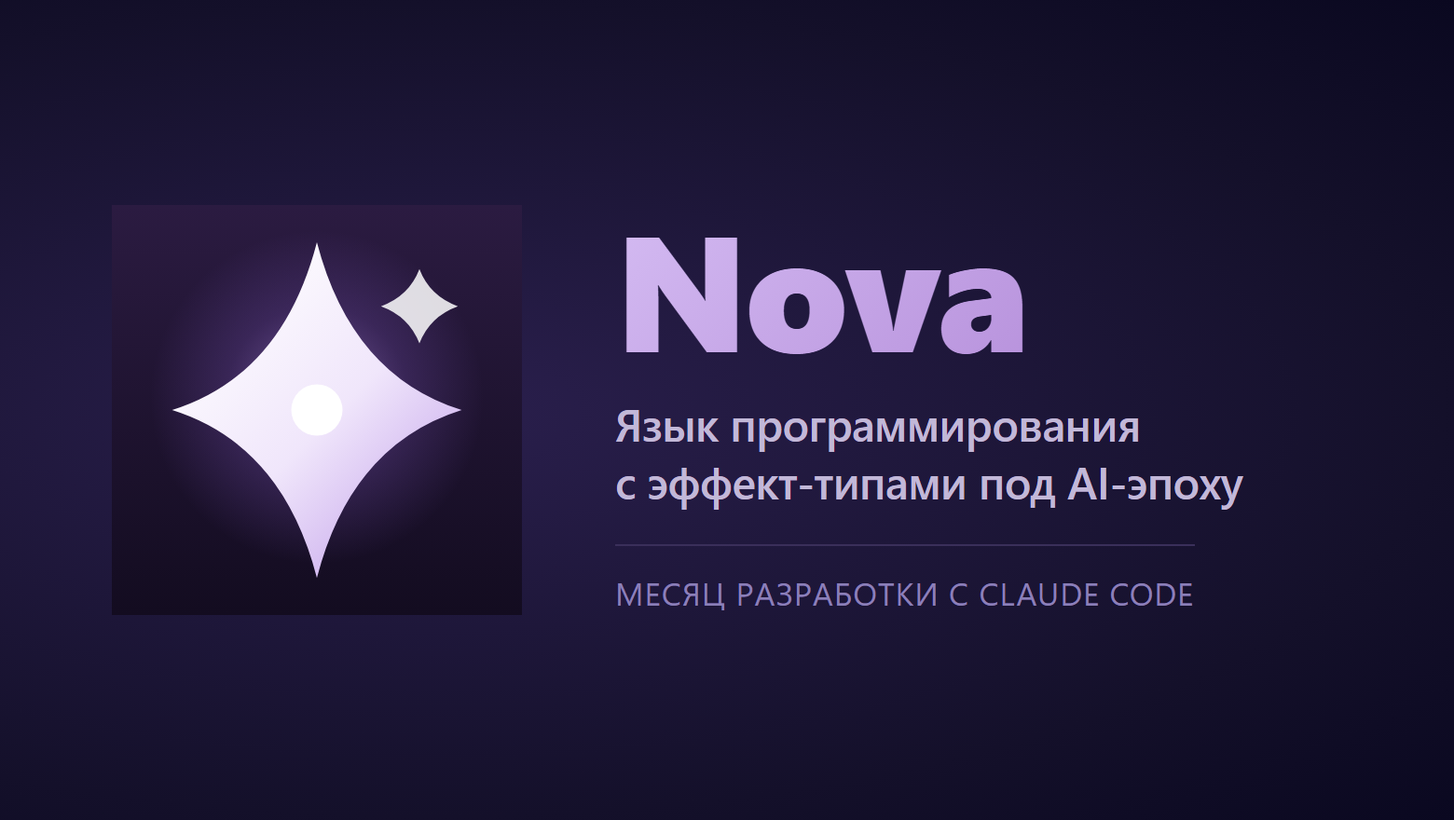
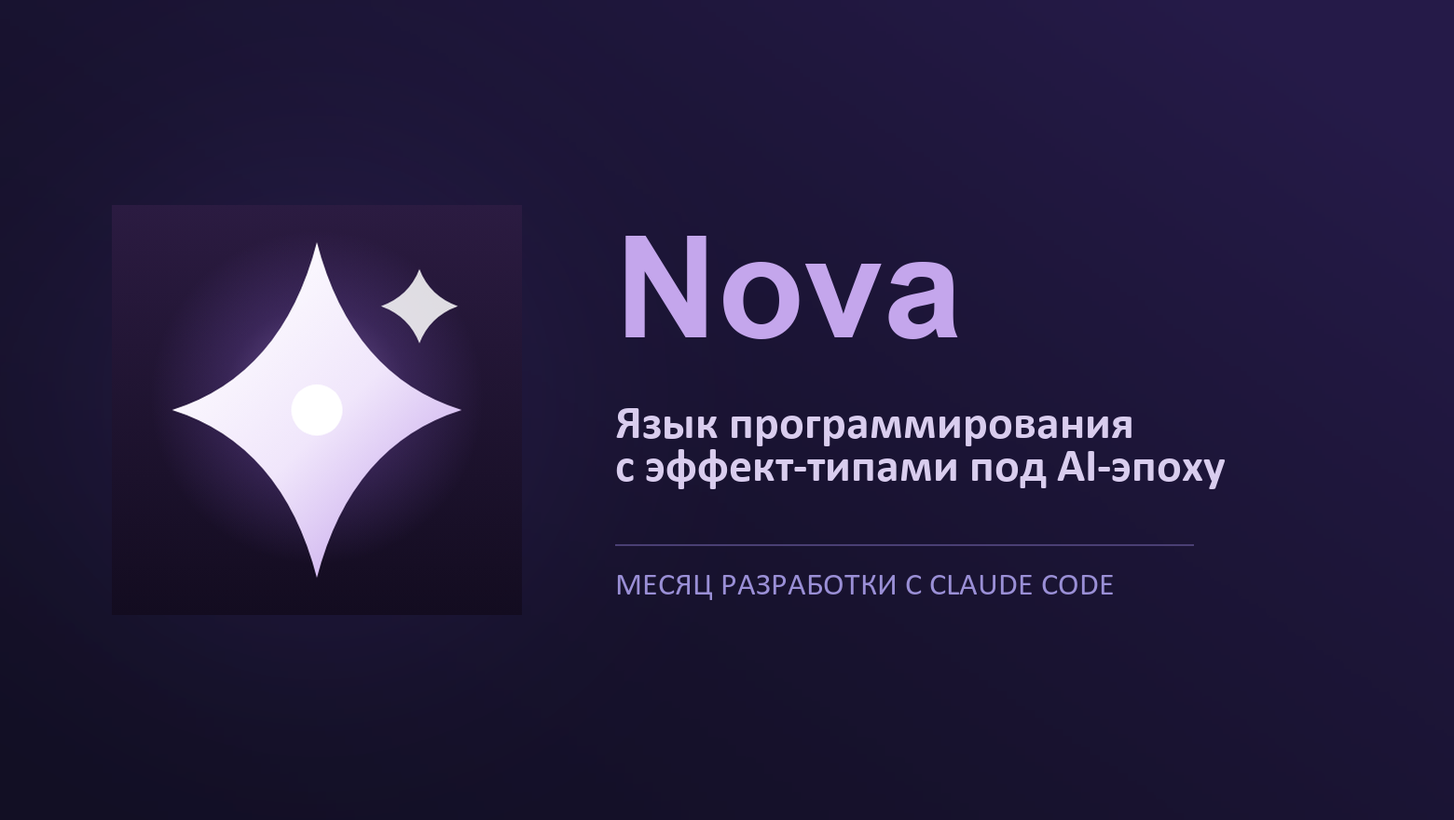
blog: June article in full (ru), readingMinutes override, local cover
- ru 2026-06-08 post is now the full text as published on Habr (title and
  date 2026-06-04 as on Habr) instead of an announcement; code shown as
  code blocks, figures from /img/blog/; cover redrawn locally.
- Optional frontmatter `readingMinutes` for posts that only announce an
  external article; rule added to CLAUDE.md "Блог".

diff --git a/site/src/content.config.ts b/site/src/content.config.ts
@@ -62,6 +62,9 @@ const blog = defineCollection({
     // Для постов-анонсов: ссылка на полный текст (например, на Хабре).
     // Обложка для списка постов (780x440 или 2x), путь от корня сайта.
     cover: z.string().optional(),
+    // Время чтения в минутах, если пост — анонс статьи, опубликованной
+    // в другом месте: считается по полному тексту (см. CLAUDE.md, «Блог»).
+    readingMinutes: z.number().int().positive().optional(),
     externalUrl: z.string().optional(),
     externalLabel: z.string().optional(),
   }),

diff --git a/site/src/content/blog/ru/2026-06-08-month-with-claude.md b/site/src/content/blog/ru/2026-06-08-month-with-claude.md
@@ -1,33 +1,226 @@
 ---
-title: "Месяц разработки Nova с Claude Code: где ломаются автономные агенты"
+title: "Месяц пишу язык программирования Nova с Claude Code. Где ломаются автономные агенты"
 description: "Месяц разработки языка программирования Nova с автономными AI-агентами: ~300 планов закрыто, ~2000 тестов, четыре категории сбоев агентов и дисциплина, которая их ловит."
 slug: "2026-06-08-month-with-claude"
-date: "2026-06-08"
-dateLabel: "8 июня 2026"
+date: "2026-06-04"
+dateLabel: "4 июня 2026"
 lang: "ru"
 author: "Евгений Головин"
 tags: ["Статья", "AI-агенты"]
 cover: "/blog/2026-06-08-month-with-claude/cover.png"
-excerpt: "Месяц разрабатываю Nova с автономными AI-агентами: около 300 инженерных планов закрыто, почти 2000 тестов. Четыре категории сбоев, которые встречаются регулярно, и дисциплина, которая их ловит. Полный текст — на Хабре."
-externalUrl: "https://habr.com/ru/articles/1043394/"
-externalLabel: "Читать статью на Хабре"
+excerpt: "Месяц разрабатываю Nova с автономными AI-агентами: около 300 инженерных планов закрыто, почти 2000 тестов. Четыре категории сбоев, которые встречаются регулярно, и дисциплина, которая их ловит."
 ---
 
-Вышла большая статья о том, как я месяц разрабатываю Nova с автономными AI-агентами. За это время агенты закрыли около трёхсот инженерных планов, написали почти две тысячи проходящих тестов и собственную стандартную библиотеку на Nova. Один человек физически такой объём не вытянет.
+> **TL;DR:** Месяц назад начал делать с Claude Code собственный язык программирования Nova. Сейчас у меня есть рабочий компилятор, примерно две тысячи проходящих тестов языка Nova, почти три сотни завершенных инженерных планов (были закрыты агентами целиком с минимальным моим участием). Схема: я совместно с агентами думаю над планом реализации какой-то новой функциональности в языке, доработка синтаксиса и т.п., шлифую и полирую план в несколько итераций, агенты по нему работают, а я проверяю результат. Получается, на удивление, очень даже неплохо. Но не везде, и не всегда так, как ожидаешь. В этой статье я расскажу о том, где автономные агенты ломаются и какая моя дисциплина это ловит.
 
-Но автономные агенты ломаются предсказуемо. В статье разобраны четыре категории сбоев, которые встречаются регулярно:
+## Зачем эта статья
 
-- **Уверенные галлюцинации** — агент уверенно сообщает то, чего нет;
-- **Защита прошлой позиции** — агент неделями отстаивает дизайн-решение, которое сам же предложил;
-- **За пределами привычного** — типовая задача с нестандартной мелочью, на которой агент спотыкается;
-- **Эхо-камера** — когда несколько агентов с общим контекстом одобряют ошибки друг друга.
+Есть много статей про AI-кодинг, где чаще всего показывают что-то наподобие: «я собрал todo-app за час с Cursor». Это нормально для первичного погружения в тему AI-кодинга, но главный вопрос остаётся в стороне: что происходит, когда стоит задача сделать проект больше hello-world и выполняется на протяжении длительного времени?
 
-И главное — какая дисциплина это ловит: план как контракт, цикл аудита отдельным агентом-критиком, изоляция через worktree, многоагентное ревью с разными углами. Плюс честный разбор: сколько это стоит, и где в схеме по-прежнему нужен человек.
+У меня сейчас кейс следующий — я пишу новый язык программирования и компилятор к нему (зачем и почему оставим немного в стороне, но вкратце: появилось время этим заняться, и это не первый язык, который я делал). Прошел месяц работы, репозиторий языка публичный, любой желающий может посмотреть, что поучается на текущий момент: [github.com/nv-lang/nova](https://github.com/nv-lang/nova). Расскажу по-честному о своем опыте, что из этого выходит и где автономные агенты сработали, а где влетели в стену на полном ходу и что с этим я делал.
 
-Полный текст со схемами и примерами кода опубликован на Хабре:
+Если вы пробуете применять агентов на больших, многодневных задачах — статья для вас. Усаживайтесь поудобнее, будем начинать!
 
-[**Читать статью на Хабре →**](https://habr.com/ru/articles/1043394/)
+## Что я делаю — кратко
 
-Если интересна разработка Nova и методология работы с агентами — раз в неделю присылаю разбор одного реального кейса: что сработало, где агенты ломаются. Без спама и партнёрских ссылок.
+Nova — язык программирования, который я делаю с прицелом на AI-эпоху. Гипотеза простая: когда большую часть кода пишут LLM, языку имеет смысл выносить побочные эффекты в типы. Тогда ревьюер видит из сигнатуры, что функция реально делает, не погружаясь глубоко в реализацию и не угадывая по имени.
 
-[Подписаться на рассылку](/ru/newsletter/) · [Репозиторий на GitHub](https://github.com/nv-lang/nova)
+Пример сигнатуры:
+
+```nova
+fn transfer(from AccountId, to AccountId, amount Money)
+    Db Fail[InsufficientFunds] Fail[InvalidAccount] Time Log
+    -> TransferReceipt
+```
+
+Читая эту строку, LLM (и человек) понимает: ходит в БД, может бросить ошибку, читает время, пишет в лог. В Java, Python, Go этого в типе нет, приходится читать тело или документацию или идти по вызовам. LLM в таких местах догадывается, со всеми вытекающими.
+
+А вот реальный код на Nova — кусок UTF-8 имплементации в StringBuilder из стандартной библиотеки:
+
+```nova
+// Check buffer suffix. Slice-view + memcmp (zero-copy).
+export fn StringBuilder @ends_with(suffix str) -> bool {
+    ro sbytes = suffix.as_bytes()
+    ro slen = sbytes.len()
+    ro blen = @buf.len()
+    slen <= blen && @buf[blen-slen..blen].compare(sbytes) == 0
+}
+
+// --- Mutating (-> @) ---
+
+// Append a codepoint as UTF-8 (1-4 bytes). Fluent push chain.
+export fn StringBuilder mut @append(c char) -> @ {
+    ro cp = c as int
+    if cp < 0x80 {
+        @buf.push(cp as u8)
+    } else if cp < 0x800 {
+        @buf.push((0xC0 | (cp >> 6)) as u8)
+            .push((0x80 | (cp & 0x3F)) as u8)
+    } else if cp < 0x10000 {
+        @buf.push((0xE0 | (cp >> 12)) as u8)
+            .push((0x80 | ((cp >> 6) & 0x3F)) as u8)
+            .push((0x80 | (cp & 0x3F)) as u8)
+    } else {
+        @buf.push((0xF0 | (cp >> 18)) as u8)
+            .push((0x80 | ((cp >> 12) & 0x3F)) as u8)
+            .push((0x80 | ((cp >> 6) & 0x3F)) as u8)
+            .push((0x80 | (cp & 0x3F)) as u8)
+    }
+    @
+}
+```
+
+Идея такого подхода, конечно, не уникальная. Языки Koka, Eff, Effekt существуют 15 лет. Они академические, до продакшен не дошли. Nova — попытка сделать прикладной систему эффектов со стандартной библиотекой под backend-задачи с прицелом на работу в паре с LLM.
+
+Эта статья про методологию строить серьёзные вещи с автономными AI-агентами. Nova здесь — конкретный кейс, на котором я тестирую и проверяю подход.
+
+## Месяц: что получилось
+
+Если коротко, порядка месяца с первого коммита и получилось то, чего я честно говоря сам не ожидал, в первую очередь меня серьезно впечатлил темп работ.
+
+Около 300 планов закрыто агентами. Каждый план — это структурированный markdown на 500–2000 строк (они [тут](https://github.com/nv-lang/nova/tree/main/docs/plans)): в плане написано что делаем, какие критерии приёмки, какие тесты должны проходить. Агент читает план и работает по нему сам (кодирует функциональность), я смотрю результат, обсуждаю с агентом, какие были сделаны упрощения и почему и при необходимости докручиваю план и запускаю агента по доработкам. Процесс итерационный.
+
+[Тестов по языку Nova](https://github.com/nv-lang/nova/tree/main/nova_tests) набралось почти две тысячи (это регресс тесты, чтобы уже реализованное в языке не поломалось при реализации чего-то другого). Агенты выполняют регрессию после выполнения плана, она должна быть вся пройдена. Это жёсткое условие: пока не зелёное, план не закрыт, никаких «потом починим», т.к. планов в работе очень много и быстро забывается, если что-то упустил. В формальной спецификации зафиксировано под две сотни [дизайн-решений](https://github.com/nv-lang/nova/tree/main/spec/decisions) с обоснованиями и контекстом, которые были выработаны совместно с агентом при обсуждении.
+
+Что получилось на текущий момент: рабочий компилятор с кодогенерацией в C (генерируется код на языке C, дальше компилируется обычным cl.exe или clang, считаю это оптимально на данной стадии языка, т.к. много багов я и агенты ловят, проверяя саму генерацию на C, что было бы невозможно с генерацией, например, бинарного кода на выходе). Рантайм с fiber-планировщиком, GC через Boehm (консервативная, но рабочая GC), libuv для асинхронного I/O. Стандартная библиотека сейчас в активной работе. И поверх всего — аудит-фреймворк для самопроверки агентов, про него ниже.
+
+Репозиторий языка Nova открыт: [github.com/nv-lang/nova](https://github.com/nv-lang/nova), лицензия MIT. Можно клонировать и запустить.
+
+В пересчёте на день получается порядка восьми-десяти закрытых планов. Один человек физически такое количество кода за такое время не напишет. В этом и есть весь смысл автономии: я планирую (совместно с агентом), агент исполняет.
+
+Сразу важная оговорка про схему. Сам план — проектирование плюс критерии приёмки — пишу я с агентом. Дальше идёт автономное исполнение агентами: код, тесты, итерации при ошибках, эскалация если что-то пошло не по плану. Довольно часто получается пускать агентов в параллель над разными частями плана или просто над разными планами. Готовый результат я снова смотрю руками по тем критериям, которые в плане зафиксированы. В среднем один план это от получаса до несколько часов реальной работы агента, мой ревью обычно минут десять, иногда дольше если результат не очевиден. Бывает и совсем медленно с обеих сторон, но порядок примерно такой. Конечно это не означает, что я 10 минут поработал и потом ничего не делаю. Т.к. я запускаю много агентов параллельно над выполнением разных задач, то и я тоже получается постояно в работе - это напоминает некий конвейер, один план запустил в работу, другой выполнился и нужно проверить. Итоговый объем выполненных работ получается серьезным.
+
+## Где они ломаются: четыре места
+
+Месяц интенсивной работы дал статистику. Дальше — четыре категории сбоев, которые встречаются регулярно. Расскажу про кейсы из репо, реакция и моё понимание происходящего.
+
+### Сбой 1. Уверенные галлюцинации
+
+Самое неприятное — уверенные галлюцинации. Когда агент говорит то, чего на самом деле нет. Просто выдумка факта, потому что «обычно так бывает».
+
+Один из планов был про variadic-параметры, обычная фича в языках: `fn foo(...args []int)`. Агент сделал, прогнал тесты, всё зелёное. Зафиксировал план как закрытый, я пробежал по результату глазами, тоже подтвердил, что все верно. Через несколько дней я дебажил совсем другую вещь, попросил агента прогнать интерпретатор (один из ранних режимов работы компилятора, от которого в будущем я практически отказался по причинам слишком высоких трудозатрат одновремено разрабатывать два канала исполнения) — и он молча выдал семь падений из семи. Не сразу понял, что это те же тесты, которые уже были «зелёные».
+
+Оказалось следующее, под капотом Nova имел два варианта исполнения (сгенерировать код на С или выполнить код Nova как интерпретатор) — и реализация variadic’ов в интерпретаторе просто не была реализована. Агент сделал её только в одной половине, прогнал тесты, увидел все зелёное и посчитал работу завершенной. С его стороны всё выглядело прекрасно.
+
+Этот тип ошибки тесты не ловят, потому что агент сам считает, что всё проверил. Я, доверившись, тоже не проверяю руками то, что агент только что проверил. Итог — можно упустить неочевидные детали. Теперь у меня поверх плана идёт отдельный аудит. Другой агент с другим системным промптом, в роли критика. Его задача — искать в плане упущения, недоработки и упрощения, всё что в принципе может сломаться, но напрямую не проверяется тестами.
+
+![Цикл: план → исполнение → тесты → аудит-критик → «реально закрыт»](/img/blog/01-plan-audit-cycle.png)
+
+*Цикл: план → исполнение → тесты → аудит-критик → «реально закрыт»*
+
+На одном из планов про [контракты языка Nova](https://github.com/nv-lang/nova/blob/main/docs/contracts.ru.md) (они позволяют описать то, что функция требует и гарантирует и проверяет эти утверждения на этапе компиляции через SMT-солвер) этот аудит поймал три критических дыры в корректности. Формально код был доказан правильным, но при определённой комбинации условий запуска обещание ломалось. Например, верификатор считал, что числа никогда не переполняются — а в коде сложение могло и переполниться, «доказательство» работало неверно. Анализ цикла видел только простые `x = e`, пропускал `x += 1` и присваивания внутри `if`, так что инвариант «доказывался» на устаревшем значении переменной. И третья — оператор `assume x > 0`, который должен был помогать доказательству, но вообще никуда не передавался.
+
+Без отдельного критика эти дыры жили бы в проекте и дальше и очень вероятно, что я бы их нашёл в какой-то момент только через инцидент на проде. Локальные ошибки AI вообще ловит хорошо, получше человека; провисают системные допущения — те, на которых тесты молча держатся. Тут без отдельного прохода с другим углом зрения просто не обойтись. В идеале нужно использовать другую модель или хотя бы с очень другим промптом. Например, я частенько добавлял в промпт: перепроверь *с чистого листа* то-то и то-то…
+
+### Сбой 2. Защита прошлой позиции
+
+Тут штука тоньше. Агент защищает дизайн-решение, которое сам же и предложил какое-то время назад (может пройти дни или недели). Даже тогда, когда новые данные явно говорят о необходимости пересмотра. Похоже на confirmation bias у людей, только острее: у человека хотя бы есть «ну ладно, я погорячился», а агент пробует защищать позицию до последнего.
+
+Помню как защищали opt-in cycle collection. Это была фича, где программист на уровне типа поля сам выбирал префикс работы с памятью:
+
+```nova
+type Tree {
+    children []~Tree              // Rc, real-time
+    parent ~weak Tree             // weak reference
+}
+```
+
+Идея давала уникальную заявку — это real-time гарантии на уровне структуры данных. Я тоже сначала верил, ну т.е. скорее не возражал. Агент защищал эту фичу при любых моих сомнениях, неделями. Приводил аргументы про hot loops, embedded, audio. Мне даже порой казалось, что агенту самому импонировала идея писать новый язык программирования, что его наконец-то выбрали для решения реально интересной и желанной задачи.
+
+В какой-то момент я сказал несколько слов: «На Go написан Kubernetes», имея в виду, что крупнейшая распределённая система мира работает на языке с GC (со сборщиком мусора) и разработчикам это не мешает. Агент сначала отбивался: real-time важен, ниша реальная для языка, не выбрасывай. Я не принял. Еще минут двадцать он выдавал свои аргументы, но в итоге сказал что-то близкое к “да, аргумент сильный, я зацепился за real-time-историю потому что она звучит как уникальная заявка для языка”. В итоге мы с агентом все же согласились оба, что GC даст больше плюсом, чем минусов.
+
+Переписали двести строк дизайна. Префиксы убрали, дефолт стал — управляемая память с современным сборщиком мусора. Real-time не выкинули совсем, но перевели в opt-in через `region { ... }` - блок для специальных зон, где это реально нужно: звук, торговля, embedded.
+
+Что вытащило в итоге — нужен явный адвокат дьявола. В тот раз эту роль я взял на себя, дальше делегировал отдельному агенту: один генерирует и защищает дизайн, другой обязан искать слабые места. Решение всегда за мной, но к моменту, когда я подключаюсь, дизайн уже прошёл оппонирование. Плюс заранее зафиксированные принципы, например, что «фича, слепо заимствованная из другого языка, должна оправдывать своё существование». В споре с агентом такие принципы дают точку опоры, к которой можно возвращаться когда логика закручивается слишком красиво.
+
+### Сбой 3. За пределами привычного
+
+Случай тоньше. Задача похожа на типичную, но у неё есть нестандартная мелочь, и агент её не замечает. Делает уверенно по типовому шаблону, а ломается ровно на этой мелочи.
+
+[План 95](https://github.com/nv-lang/nova/blob/main/docs/plans/95.bis-option-result-pure-methods-nova-body.md) — переписать пять «чистых» Option/Result-методов с C-trampoline’ов на код на Nova. Что-то вроде Option.unwrap_or(def) => match @ { Some(v) => v, None => def }. Задача казалась простой, агент сделал, тесты прошли. Через сутки понадобилось вернуться к этому коду — и обнаружилось, что компилятор C падает.
+
+Технически вот что произошло. Nova для каждого использования дженерика генерирует отдельную C-функцию с именем, в которое включён тип — например, Option_unwrap_or_int. Параллельно у нас в рантайме есть старые имена функций, оставленные через #define ради обратной совместимости. Пара новых сгенерированных имён случайно совпала с этими старыми — C-компилятор увидел дубликат символа и упал.
+
+Урок я зафиксировал не как пункт чек-листа, а в самом кодогенераторе: сгенерированное имя функции теперь всегда содержит суффикс с типом, даже когда формально мог бы быть короче. Это исключает коллизии с #define-алиасами структурно, без необходимости каждый раз помнить «проверь не забыл ли». Принцип на будущее: если нашёл нюанс, который агент пропустил, потому что писал по стандартному шаблону, лучше зафиксировать жёстким правилом в самом коде, чем добавлять «не забудь проверить вот это» в шаблон плана — про чек-лист агент тоже когда-нибудь забудет, а правило в коде нет.
+
+### Сбой 4. Эхо-камера
+
+Многоагентная схема в теории должна ловить ошибки лучше, чем одиночный агент. На практике, особенно на старте, легко получается обратное.
+
+Самая ранняя схема у меня была простая: «строитель» пишет код, «ревьюер» проверяет. На словах правильно, но оба использовали один и тот же контекст и одни и те же примеры в системном промпте. Ревьюер систематически одобрял ошибки строителя — они «выглядели правильно» по тем же паттернам, на которых он сам был настроен.
+
+Сейчас ревьюер-агентов несколько и появлялись они по очереди. Сначала добавил отдельного факт-чекера, его задача максимально техничная: проверить, что утверждения из артефакта реально соответствуют состоянию репозитория. Делает grep, смотрит git log, реально запускает `nova test`. Это закрыло половину проблем сразу.
+
+Потом появился стилевой — после пары инцидентов, когда код проходил тесты, но был написан «не в духе» проекта: обработка ошибок по-своему, разбивка модулей странная, идиомы соседним файлам незнакомые. Этот агент сверяется с уже существующими паттернами в кодовой базе.
+
+Атакующий агент пришёл последним и в двух вариациях. Первая - общая, задача найти самую большую дыру в артефакте, намеренно негативный угол. Вторая — заточенная под безопасность: проблемы с памятью и утечки ресурсов, плюс отдельный фокус на состояния гонки в многопоточном коде. Я их разделил после того, как общий атакующий агент стал систематически пропускать баги многопоточности; не его профиль, у него фокус на логических дырах.
+
+Если хотя бы один из ревьюеров отметил проблему, артефакт уходит мне на ручную проверку и одобрение. Плюс выборочный аудит — где-то 5–7% автоматически исполненных операций в неделю я ревьюю сам, выбираю случайно. Не каждую, но достаточно для статистического сигнала: если точность агентов упала, я это замечу.
+
+![Артефакт от builder-агента проверяют 4 ревьюера параллельно; если хоть кто-то отметил — к человеку, иначе — автоматически принято](/img/blog/02-multi-agent-review.png)
+
+*Артефакт от builder-агента проверяют 4 ревьюера параллельно; если хоть кто-то отметил — к человеку, иначе — автоматически принято*
+
+Само число «четыре» тут случайное. Если бы классы инцидентов сложились по-другому, было бы три или пять. Принципиально только то, что углы у них действительно разные. Когда я в начале делал «строителя» и «ревьюера» с одним контекстом, это и был такой же эхо-эффект, просто в меньшем масштабе.
+
+## Что у меня работает
+
+Основа всей схемы — план как контракт. Markdown-файл, который и я, и агент читаем одинаково, с критериями приёмки, которые потом можно проверить «закрыто или нет». Это договор между мной и агентом, что считать сделанным. Я зову это планом, хотя на старте называл по-разному — «спека», «задание», «бриф». В итоге «план» прижился, потому что слово напоминает про обязательность пройти все пункты до конца, без жульничества с «и так сойдёт».
+
+Поверх плана работает изоляция через worktree. Одна задача — одна отдельная копия репозитория. Агент не может случайно сломать другую ветку работы, её физически не видит. Конфликты, если возникают, разрешаются обычным git merge самими же агентами. До этого я какое-то время пробовал просто разные ветки без worktree, и пару раз агент успевал начать работу в одной ветке, переключиться по моей просьбе и оставить грязное состояние, которое потом всплывало в самых неожиданных местах. Worktree это убило раз и навсегда, рекомендую к использованию.
+
+![Каждый план в отдельном worktree; агенты работают изолированно, потом git merge в main](/img/blog/03-worktree-isolation.png)
+
+*Каждый план в отдельном worktree; агенты работают изолированно, потом git merge в main*
+
+Дальше — цикл аудита, про который я уже рассказывал в сбое 1. Закрытие плана не означает «принято»: после закрытия отдельный проход критика, ищет дыры в допущениях. Только после этого план считается реально закрытым. Дорого по времени, но дешевле, чем чинить через две недели то, что протекло. А агенты, скажу я по секрету, любят халтурить там, где не нужно, любят упрощать задачу даже, если я прошу не делать этого! Любят не делать некоторые пункты плана, считая их не существенными для данного этапа разработки. Поэтому цикл аудита просто обязателен.
+
+И версионирование промптов как кода. Промпты и правила агентов лежат в git и проходят ревью как обычный код, изменения отслеживаются по diff’у. Когда качество работы агентов проседает, можно понять, какой именно патч это сломал, и откатить.
+
+Плюс несколько процедурных штук. Жёсткий барьер на нулевую регрессию тестов после закрытия плана: если регрессия произошла — план не закрыт, нужно исправить. Эскалация по порогам — чем выше ставка решения (например, юридические последствия или серьёзная сумма), тем выше уровень эскалации к человеку, для самого верха — лично я. Для типовых повторяющихся ситуаций заранее прописаны правила вида «если X, то Y». Остальное на меня.
+
+Со стороны это выглядит излишне регламентированно, и поначалу я сам сопротивлялся: казалось, что я обвешиваю себя бюрократией, чтобы скомпенсировать недоверие к агентам. Но без этой структуры темп в восемь-десять планов в день просто не держится, всё начинает расползаться в разные стороны.
+
+## Сколько это стоит и сколько экономит
+
+Что у нас по деньгам, какие расходы? Claude Code мне обошёлся за месяц где-то в двадцать тысяч рублей. Это реальные операционные расходы. Сюда же нормальный компьютер с быстрым диском, чтобы агенты могли параллельно гонять билды. Но это уже инвестиция, не текущий расход.
+
+Сравнение с инженерным временем штука менее прямая. Если консервативно прикинуть, что один middle-senior исполнил бы те же триста планов вручную, на каждый план где-то 4-6 часов человеко-времени в среднем, иногда сильно больше, получается порядка 1200-1800 часов работы. Это где-то 7-11 месяцев full-time одного человека, если повезёт без отвлекающих факторов (но мы-то знаем, что не повезёт). У меня — месяц одного человека с агентами.
+
+Двадцать тысяч на AI-агента — это в десятки раз меньше, чем стоимость работы инженера, который сделал бы такой же объём вручную, но финансовая экономия даже не самое важное здесь. Важнее, что один человек управляет объёмом работы, который иначе требовал бы команды. Без агентов проект такого масштаба соло я бы никогда не вытянул, и расходы на AI-агента окупаются с большим запасом.
+
+## Где честно нужен человек
+
+После месяца работы довольно чётко проявлялось, что не автоматизируется, даже если очень захотеть. Самые крупные вещи — стратегические развороты вроде «закрываем направление» или «меняем позиционирование на другой сегмент» — всегда остаются на человеке. Цена ошибки в таких решениях слишком высокая, прецедента может вообще не быть. Агент может дать рекомендацию, но решение я принимаю самостоятельно.
+
+Принципы проекта — тоже на мне. Какие фичи Nova не добавляет, куда вообще не идёт. Это про вкус и видение, никакого формального правила тут нет. Делегирую агенту — теряется авторство, проект превращается в усреднённый набор фич как у всех.
+
+Кризисные решения вне правил — когда триггер не покрыт деревом решений, агент должен остановиться и эскалировать. Импровизация в таких случаях — самая дорогая ошибка, которую можно сделать в этой схеме.
+
+По объёму это где-то пять-семь процентов работы, но в них концентрируется почти весь риск. Неудачное стратегическое решение легко обнуляет накопленный результат. Принятие решения за человеком, не нужно пускать в свободное плавание агента, дров можно наколотить не слабо.
+
+## Прогноз
+
+Через год я ставлю на один из двух сценариев. Либо эта методология — план как контракт, плюс аудит-цикл и эскалация на человека по пороговым значениям — станет нормой в индустрии так же, как лет десять назад стали нормой code review и CI/CD. Сейчас фраза «я делегировал агентам N инженерных задач» звучит почти как провокация, через год может стать рутиной.
+
+Либо окажется, что текущие AI-агенты — локальный максимум, и через год-два появится что-то совсем другое: более продвинутые архитектуры или принципиально новые подходы.
+
+Вероятность второго оцениваю не маленькой, слишком уж быстро все развивается, но сейчас работает первый сценарий и довольно успешно. Конечно, к хорошему быстро привыкаешь: уже не хватает скорости работы агентов, не хватает автоматического общения между агентами при работе с тем же Claude Code, думаю тут мы только в начале пути. Но языки, не оптимизированные под AI-эпоху, могут начать проигрывать в нише серьёзной инженерии.
+
+## Что предлагаю
+
+Репозиторий открыт: [github.com/nv-lang/nova](https://github.com/nv-lang/nova), MIT-лицензия. Можно клонировать, запустить, посмотреть как устроено.
+
+Планирую публиковать разборы по AI-инженерии и разработке языка Nova, реальные кейсы и интересные решения со стороны агентов. Подписаться можно на [nv-lang.org/newsletter/](https://nv-lang.org/newsletter/). Без спама и партнёрских ссылок, только то, что мне самому показалось важным записать.
+
+Если хотите участвовать — нужны критики дизайна (PL-эксперты) и разработчики std-модулей; тестировщикам на реальных кейсах тоже всегда рады. Issues в репо открыты. Поддержите «отечественного производителя» :)
+
+## Вопрос к комментариям
+
+Если у вас есть опыт автономного исполнения LLM-агентами на серьёзном масштабе — задачи, которые занимают часы-дни без вашего ежедневного участия — расскажите, что у вас ломается и что работает. Я сейчас собираю общую картину сбоев на масштабе; у меня нашлось четыре категории, интересно, какие есть у вас.
+
+---
+
+**Следующая статья серии:** «9 раз я переубедил Claude за месяц проектирования языка. Полный разбор» — конкретные истории, паттерны переубеждения. Плюс чек-лист «когда сопротивляться AI».
+
+*Впервые опубликовано на Хабре: [habr.com/ru/articles/1043394](https://habr.com/ru/articles/1043394/).*
